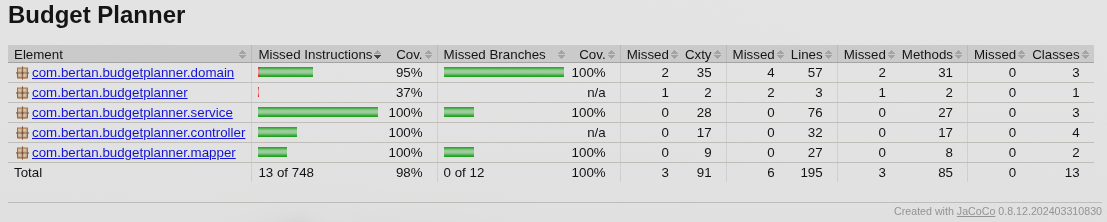
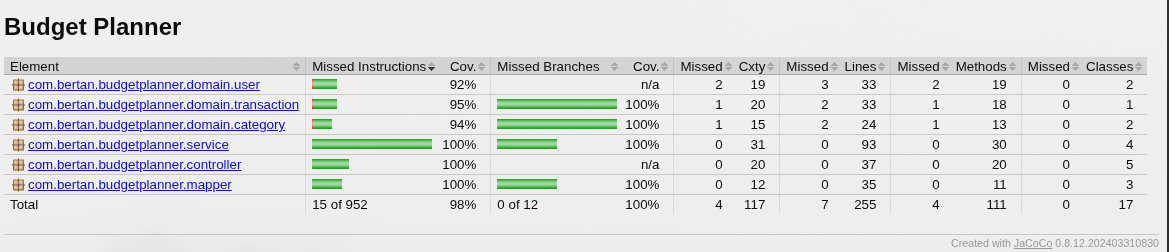
docs: add documentation about jwt stateless decision

diff --git a/README.md b/README.md
@@ -58,12 +58,18 @@ O pipeline de CD autentica na AWS via OIDC em vez de um Access Key fixo guardado
 
 Resumo: OIDC foi escolhido pela ausência de segredo de longa duração e por restringir o acesso por repositório e branch, sendo também a prática hoje recomendada pela AWS e pelo GitHub.
 
+### Por que JWT stateless e não sessão?
+
+Cada request autenticada carrega um token JWT (HMAC256), validado a cada chamada por um filtro próprio (`SecurityFilter`) antes de chegar aos controllers, sem sessão guardada em lugar nenhum. Isso evita sticky session ou um store de sessão compartilhado entre as instâncias do ECS quando a API escala horizontalmente atrás do ALB, e mantém a autenticação no mesmo modelo do resto da infra, que já é stateless (com exceção do RDS).
+
+Senha nunca é salva em texto puro, vai hash com BCrypt. Só `/auth/register` e `/auth/login` ficam abertos, todo o resto exige um Bearer token válido no header `Authorization`.
+
 ## Testes
 
 Dois níveis de teste, separados por sufixo (`*Test` vs `*IT`):
 
-- **Unitários** — `domain`, `service` e `mapper` testados isoladamente (JUnit 5 + Mockito), sem subir contexto Spring.
-- **Integração** — `*ControllerIT` sobem o contexto Spring completo (`@SpringBootTest`, porta aleatória) e usam [Testcontainers](https://testcontainers.com/) para provisionar um PostgreSQL real em container a cada execução, eliminando divergência entre teste e banco de produção. As chamadas HTTP aos endpoints são feitas com [REST Assured](https://rest-assured.io/). Cada teste limpa as tabelas (`TRUNCATE ... RESTART IDENTITY CASCADE`) no `@AfterEach` para isolamento entre casos.
+- **Unitários** - `domain`, `service` e `mapper` testados isoladamente (JUnit 5 + Mockito), sem subir contexto Spring.
+- **Integração** - `*ControllerIT` sobem o contexto Spring completo (`@SpringBootTest`, porta aleatória) e usam [Testcontainers](https://testcontainers.com/) para provisionar um PostgreSQL real em container a cada execução, eliminando divergência entre teste e banco de produção. As chamadas HTTP aos endpoints são feitas com [REST Assured](https://rest-assured.io/). Cada teste limpa as tabelas (`TRUNCATE ... RESTART IDENTITY CASCADE`) no `@AfterEach` para isolamento entre casos.
 
 Cobertura medida com JaCoCo (`mvn verify`), excluindo pacotes de `dto`, `exception` e `config`:
 
@@ -76,6 +82,8 @@ A documentação completa dos endpoints está disponível via Swagger em `http:/
 ## Endpoints principais
 
 - `GET /api/v1/health`: status da API
+- `POST /api/v1/auth/register`: cria usuário
+- `POST /api/v1/auth/login`: autentica e retorna token JWT
 - `GET/POST/PUT/DELETE /api/v1/categories`: categorias (tipo `INCOME` ou `EXPENSE`)
 - `GET/POST/PUT/DELETE /api/v1/transactions`: transações (paginado)
 - `GET /api/v1/summary/balance`: saldo geral
